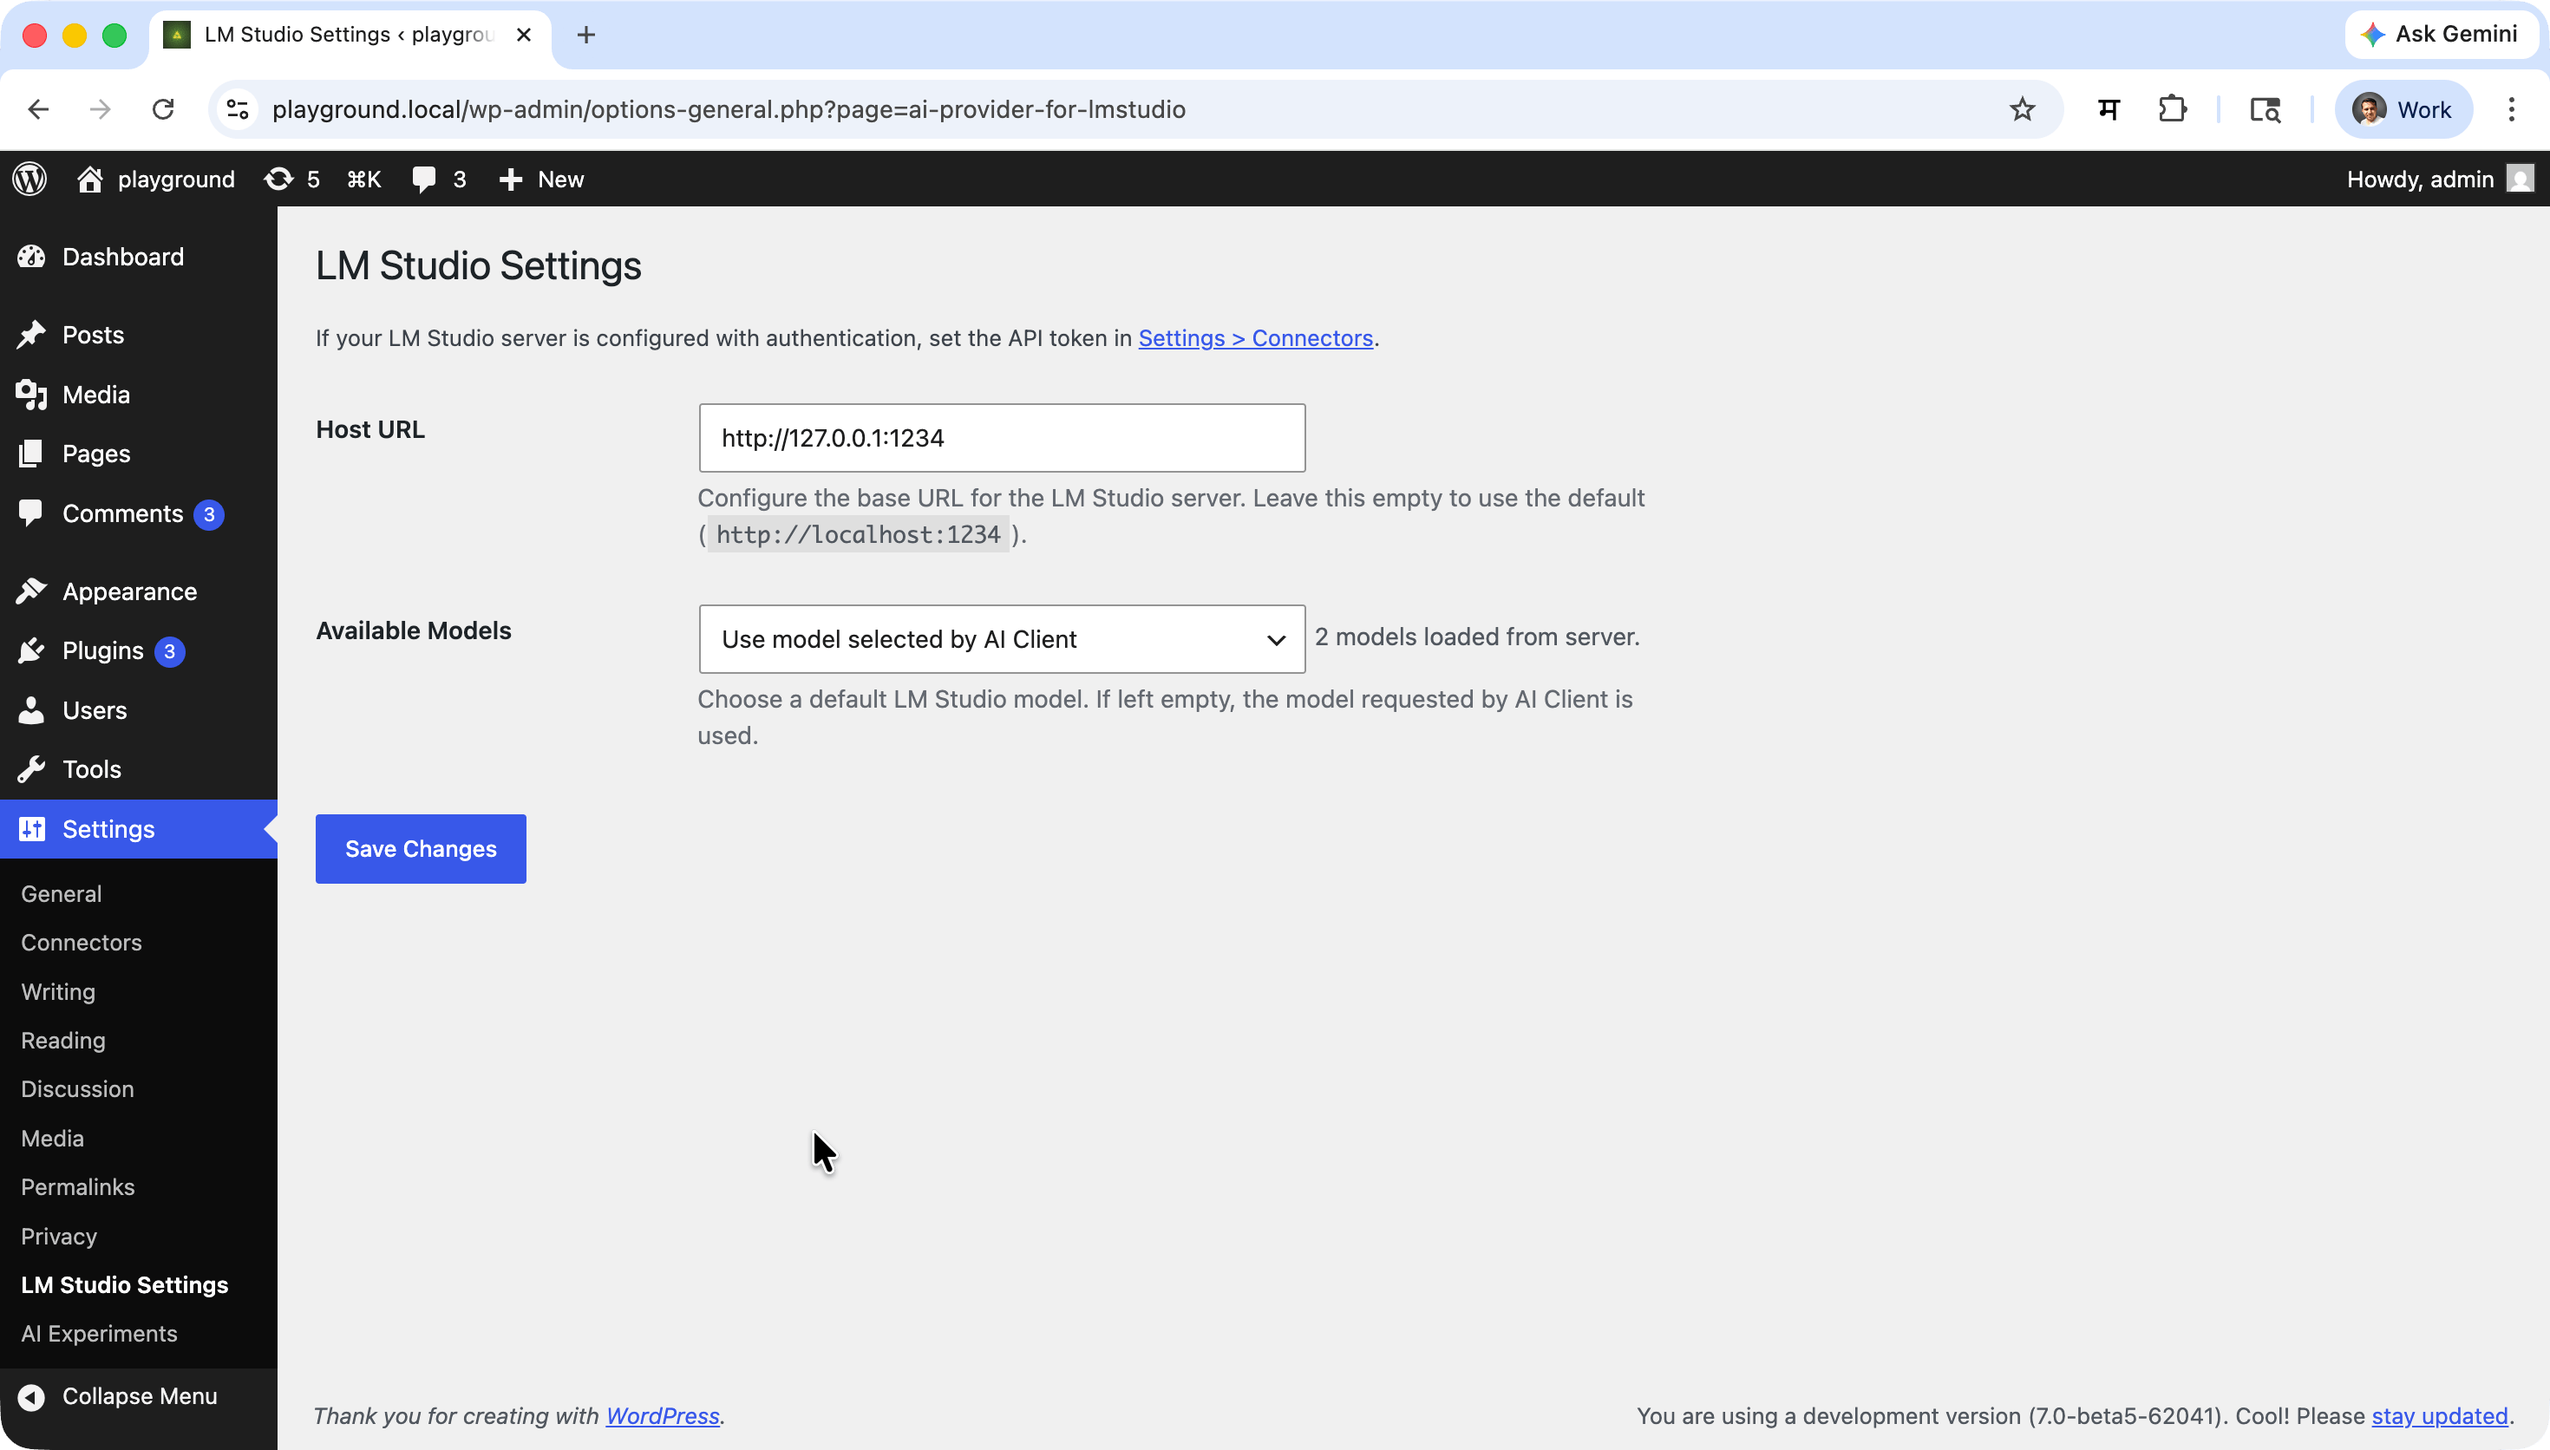
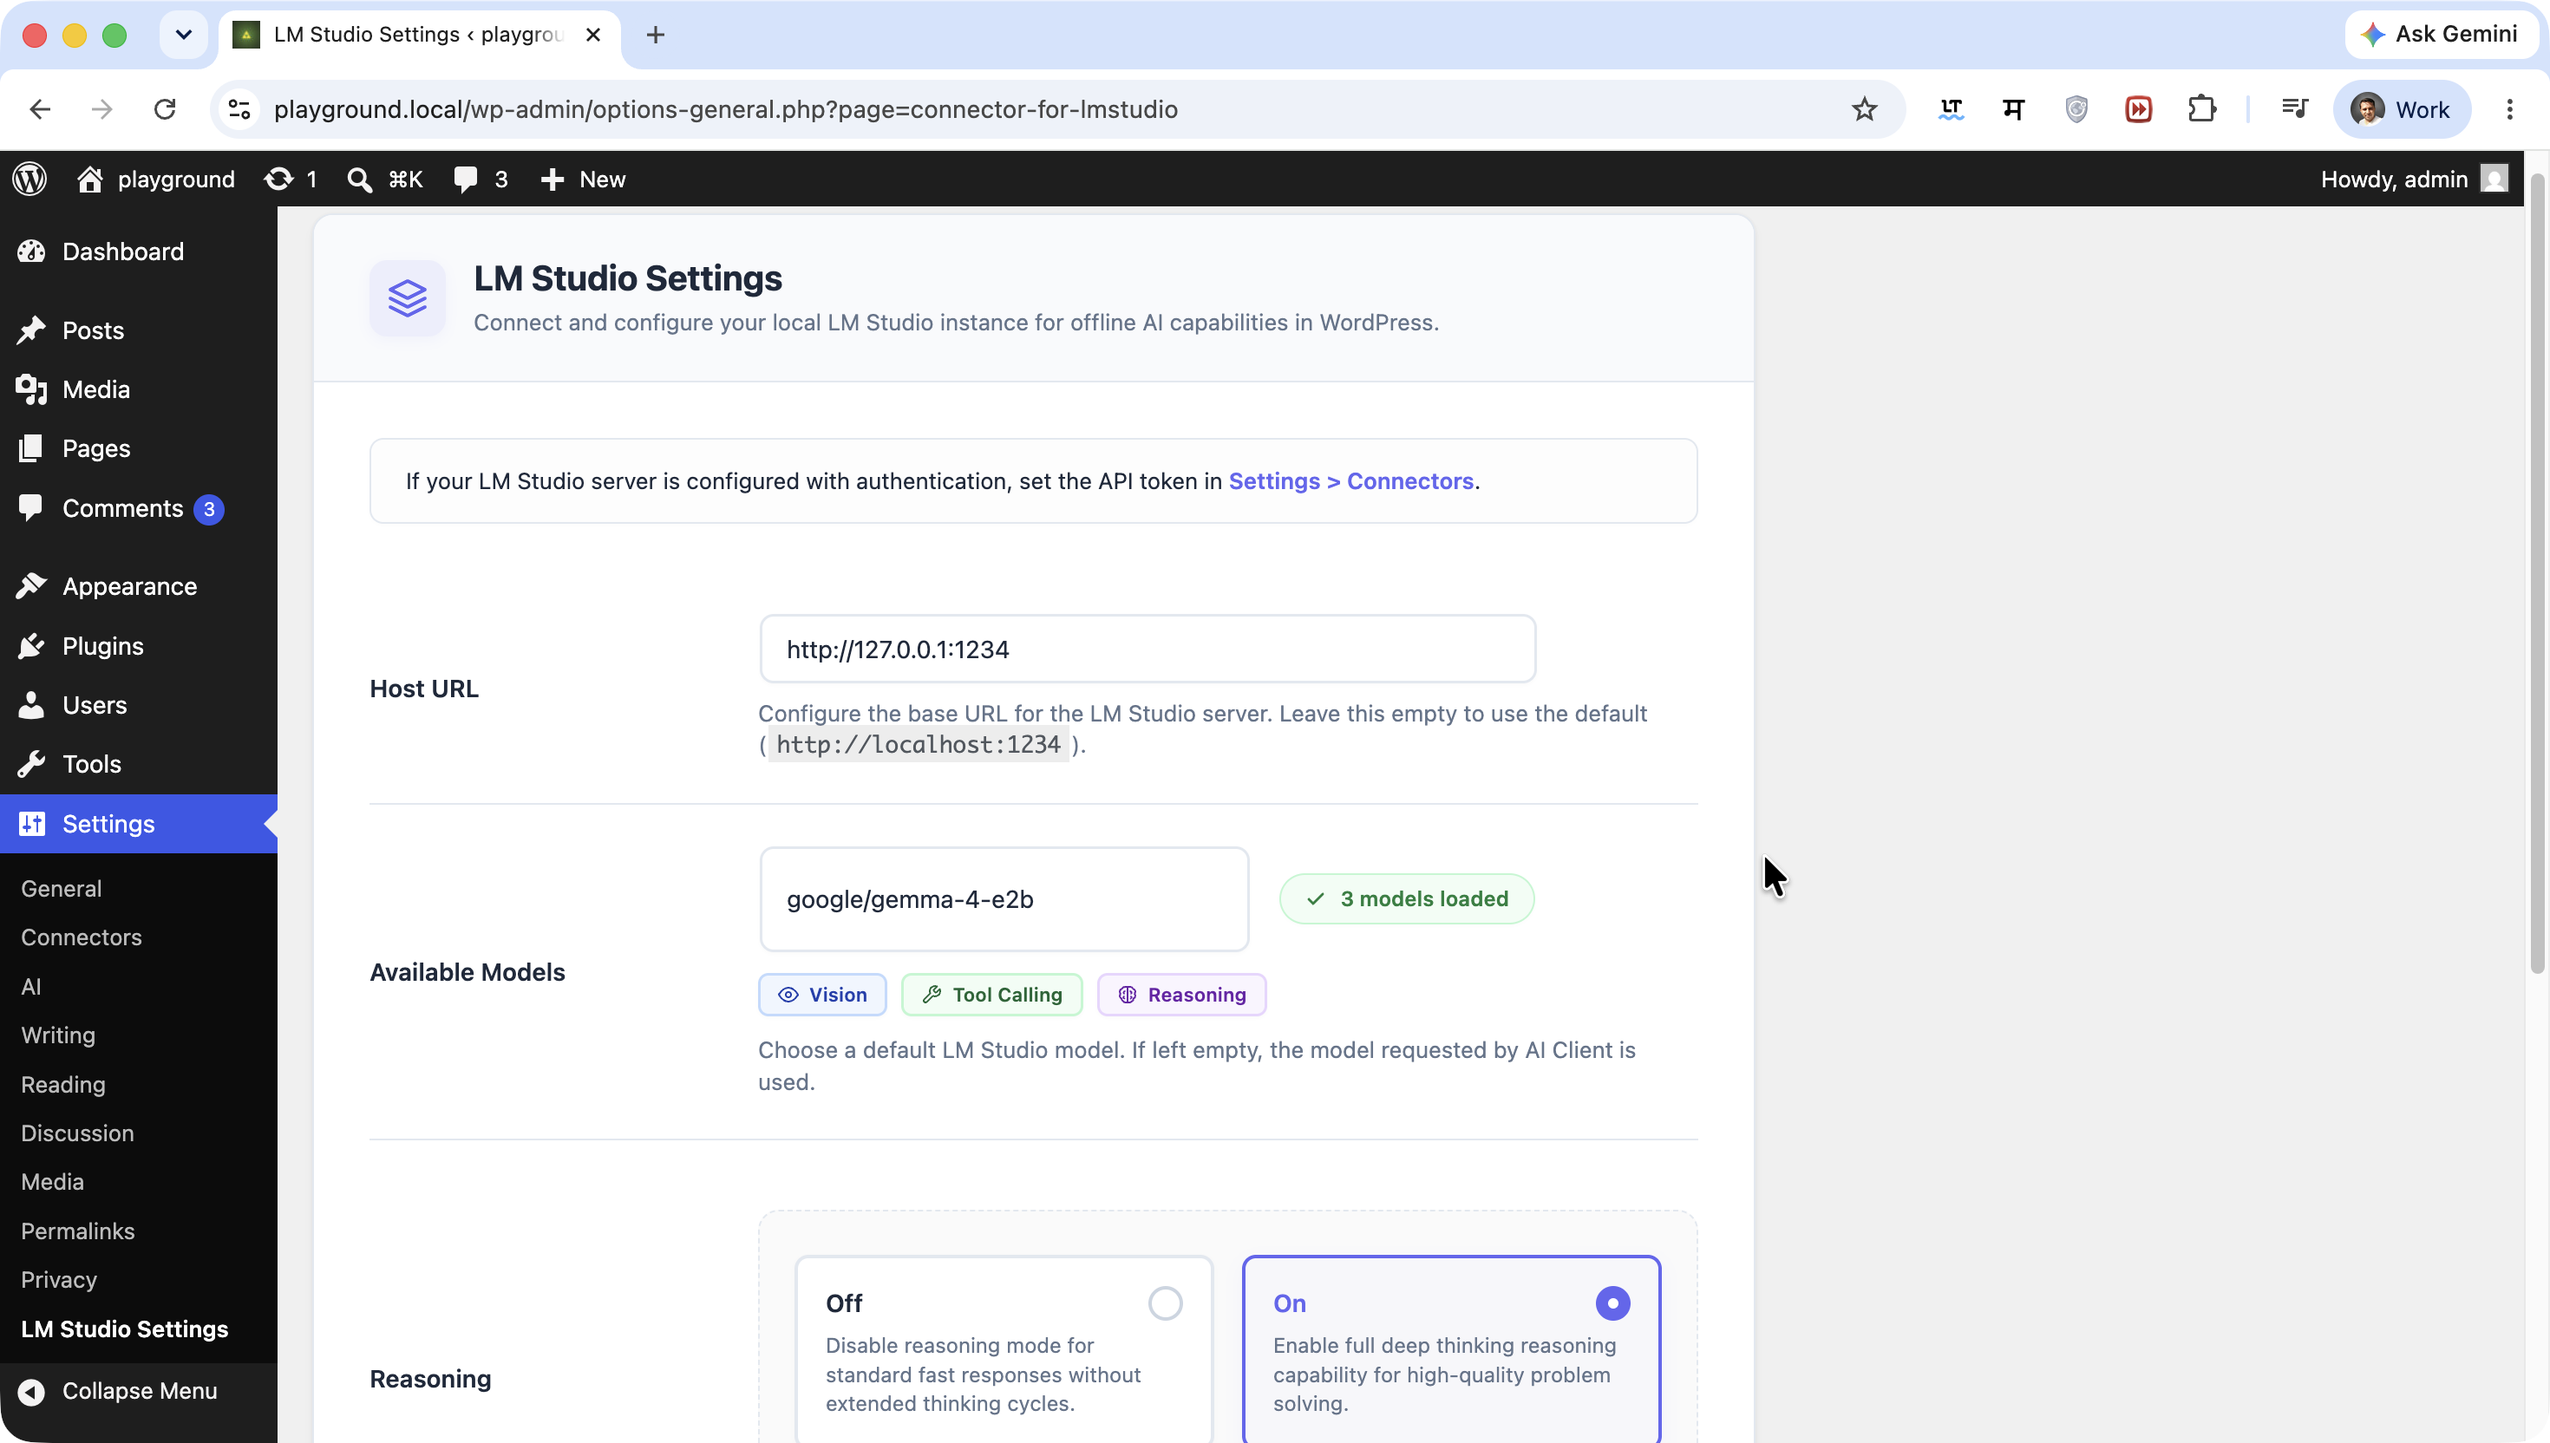
chore: update changelog and version to 1.1.0; enhance settings UI and add model capabilities badges

diff --git a/assets/admin/settings/index.ts b/assets/admin/settings/index.ts
@@ -57,6 +57,28 @@ let modelCapabilitiesMap: Record<string, ModelCapabilities> = {};
 // Safely retrieve the settings passed from WordPress PHP.
 const settings = window.ConnectorForLMStudioSettings || {};
 
+// SVG URLs passed from PHP via wp_localize_script.
+const SVGS = settings.svgs || {};
+
+/**
+ * Creates an <img> element pointing to the SVG asset file.
+ *
+ * @param {string} name The SVG identifier.
+ */
+const getSVGElement = ( name: string ): HTMLImageElement | null => {
+	const url = SVGS[ name as keyof typeof SVGS ];
+	if ( ! url ) {
+		return null;
+	}
+	const img = document.createElement( 'img' );
+	img.src = url;
+	img.alt = '';
+	img.width = 24;
+	img.height = 24;
+	img.setAttribute( 'aria-hidden', 'true' );
+	return img;
+};
+
 /**
  * Helper function to extract Model ID safely from response.
  *
@@ -121,11 +143,9 @@ const renderCapabilitiesBadges = (): void => {
 	if ( capabilities.vision ) {
 		const visionBadge = document.createElement( 'span' );
 		visionBadge.className = 'lmstudio-cap-badge lmstudio-cap-vision';
-		if ( settings.svgs?.vision ) {
-			const img = document.createElement( 'img' );
-			img.src = settings.svgs.vision;
-			img.alt = '';
-			visionBadge.appendChild( img );
+		const svg = getSVGElement( 'vision' );
+		if ( svg ) {
+			visionBadge.appendChild( svg );
 		}
 		visionBadge.appendChild( document.createTextNode( __( 'Vision', 'connector-for-lmstudio' ) ) );
 		badgesContainer.appendChild( visionBadge );
@@ -135,11 +155,9 @@ const renderCapabilitiesBadges = (): void => {
 	if ( capabilities.trained_for_tool_use ) {
 		const toolBadge = document.createElement( 'span' );
 		toolBadge.className = 'lmstudio-cap-badge lmstudio-cap-tools';
-		if ( settings.svgs?.tools ) {
-			const img = document.createElement( 'img' );
-			img.src = settings.svgs.tools;
-			img.alt = '';
-			toolBadge.appendChild( img );
+		const svg = getSVGElement( 'tools' );
+		if ( svg ) {
+			toolBadge.appendChild( svg );
 		}
 		toolBadge.appendChild( document.createTextNode( __( 'Tool Calling', 'connector-for-lmstudio' ) ) );
 		badgesContainer.appendChild( toolBadge );
@@ -154,11 +172,9 @@ const renderCapabilitiesBadges = (): void => {
 	) {
 		const reasoningBadge = document.createElement( 'span' );
 		reasoningBadge.className = 'lmstudio-cap-badge lmstudio-cap-reasoning';
-		if ( settings.svgs?.reasoning ) {
-			const img = document.createElement( 'img' );
-			img.src = settings.svgs.reasoning;
-			img.alt = '';
-			reasoningBadge.appendChild( img );
+		const svg = getSVGElement( 'reasoning' );
+		if ( svg ) {
+			reasoningBadge.appendChild( svg );
 		}
 		reasoningBadge.appendChild( document.createTextNode( __( 'Reasoning', 'connector-for-lmstudio' ) ) );
 		badgesContainer.appendChild( reasoningBadge );
@@ -335,11 +351,9 @@ const renderModels = (
 	if ( models.length === 0 ) {
 		const noModelsBadge = document.createElement( 'span' );
 		noModelsBadge.className = 'lmstudio-loader-badge lmstudio-error-badge';
-		if ( settings.svgs?.error ) {
-			const img = document.createElement( 'img' );
-			img.src = settings.svgs.error;
-			img.alt = '';
-			noModelsBadge.appendChild( img );
+		const svg = getSVGElement( 'error' );
+		if ( svg ) {
+			noModelsBadge.appendChild( svg );
 		}
 		noModelsBadge.appendChild( document.createTextNode( __( 'No models found', 'connector-for-lmstudio' ) ) );
 		status.innerHTML = '';
@@ -396,11 +410,9 @@ const renderModels = (
 	);
 	const successBadge = document.createElement( 'span' );
 	successBadge.className = 'lmstudio-loader-badge lmstudio-success-badge';
-	if ( settings.svgs?.success ) {
-		const img = document.createElement( 'img' );
-		img.src = settings.svgs.success;
-		img.alt = '';
-		successBadge.appendChild( img );
+	const svg = getSVGElement( 'success' );
+	if ( svg ) {
+		successBadge.appendChild( svg );
 	}
 	successBadge.appendChild( document.createTextNode( countText ) );
 	status.innerHTML = '';
@@ -426,11 +438,9 @@ const renderError = ( message: string ): void => {
 	const errorBadge = document.createElement( 'span' );
 	errorBadge.className = 'lmstudio-loader-badge lmstudio-error-badge';
 	errorBadge.title = message;
-	if ( settings.svgs?.error ) {
-		const img = document.createElement( 'img' );
-		img.src = settings.svgs.error;
-		img.alt = '';
-		errorBadge.appendChild( img );
+	const svg = getSVGElement( 'error' );
+	if ( svg ) {
+		errorBadge.appendChild( svg );
 	}
 	errorBadge.appendChild( document.createTextNode( __( 'Connection failed', 'connector-for-lmstudio' ) ) );
 	status.innerHTML = '';

diff --git a/assets/admin/settings/style.scss b/assets/admin/settings/style.scss
@@ -220,13 +220,15 @@
 	font-size: 12px;
 	font-weight: 600;
 	color: #475569;
-	margin-left: 16px;
 	vertical-align: middle;
 	box-shadow: 0 1px 2px rgba(0, 0, 0, 0.01);
 	animation: lmsPulse 2s infinite ease-in-out;
 	transition: all 0.3s ease;
+	flex-shrink: 0;
+	white-space: nowrap;
 
-	svg {
+	svg,
+	img {
 		width: 12px;
 		height: 12px;
 		flex-shrink: 0;
@@ -267,6 +269,15 @@
 	display: flex;
 	align-items: center;
 	width: 100%;
+	max-width: 28rem;
+	gap: 16px;
+
+	[id="connector_for_lmstudio_settings-model"] {
+		flex: 1;
+		min-width: 0;
+		max-width: 100% !important;
+		width: auto !important;
+	}
 }
 
 // Reasoning Card-like Radios Layout
@@ -426,7 +437,8 @@
 	transition: all 0.2s cubic-bezier(0.4, 0, 0.2, 1);
 	user-select: none;
 
-	svg {
+	svg,
+	img {
 		flex-shrink: 0;
 		width: 12px;
 		height: 12px;

diff --git a/connector-for-lmstudio.php b/connector-for-lmstudio.php
@@ -6,7 +6,7 @@
  * Requires at least: 7.0
  * Requires PHP:      7.4
  * Requires Plugins:  ai
- * Version:           1.0.0
+ * Version:           1.1.0
  * Author:            rtCamp
  * Author URI:        https://rtcamp.com
  * License:           GPL-2.0-or-later

diff --git a/src/Settings/LMStudioSettings.php b/src/Settings/LMStudioSettings.php
@@ -350,7 +350,7 @@ class LMStudioSettings {
 	/**
 	 * Registers the REST API routes.
 	 *
-	 * @since 1.0.0
+	 * @since 1.1.0
 	 */
 	public function register_rest_routes(): void {
 		register_rest_route(

diff --git a/CHANGELOG.md b/CHANGELOG.md
@@ -1,5 +1,13 @@
 # Changelog
 
+## 1.1.0
+- Initial release of the Connector for LM Studio plugin.
+- LM Studio REST API model discovery and text generation support.
+- Multimodal (vision) input support for vision-capable models.
+- Admin settings page for host URL and default model configuration.
+- Automatic localhost allowlisting and extended HTTP timeout for local inference.
+
+
 ## 1.0.0
 
 - Initial public release

diff --git a/README.md b/README.md
@@ -60,7 +60,7 @@ The plugin communicates with LM Studio's REST API:
 - **WordPress:** 7.0 or higher
 - **Requires at least:** 7.0
 - **Tested up to:** 7.0
-- **Stable tag:** 1.0.0
+- **Stable tag:** 1.1.0
 - **PHP:** 7.4 or higher
 - **Requires PHP:** 7.4
 - **Required Plugin:** [AI Experiments](https://wordpress.org/plugins/ai/) (`ai`) must be active
